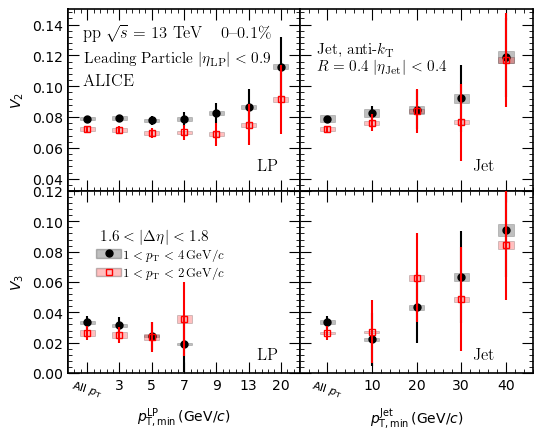
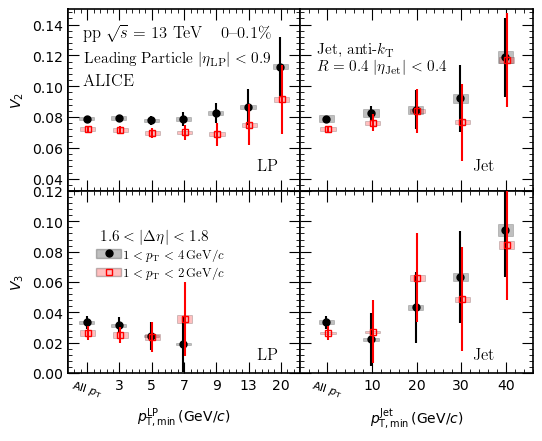
Shift points for fig6

diff --git a/FIG6_vn_ess.py b/FIG6_vn_ess.py
@@ -106,8 +106,8 @@ for iobs in range(0,2):
 			syst12 = syst12[:4];
 			gr12 = (x,y,yerr);
 
-		data = plot.Add(index,gr,**dataTypePlotParams[0],label=dataDetail[0]);
-		data12 = plot.Add(index,gr12,**dataTypePlotParams[1],label=dataDetail12[0]);
+		data = plot.Add(index,gr,**dataTypePlotParams[0],label=dataDetail[0],xshift=-0.02);
+		data12 = plot.Add(index,gr12,**dataTypePlotParams[1],label=dataDetail12[0],xshift=0.02);
 		plot.AddSyst(data,syst);
 		plot.AddSyst(data12,syst12);
 #			if( iobs==0 ):
